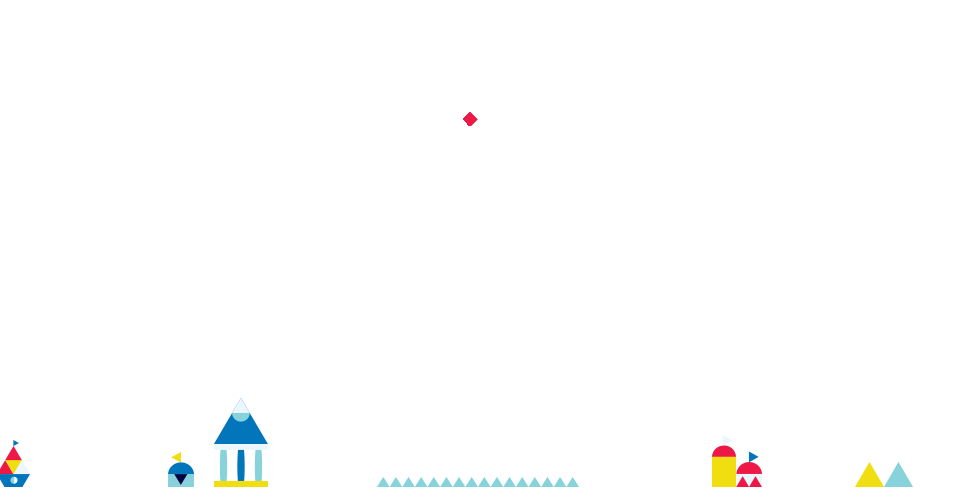
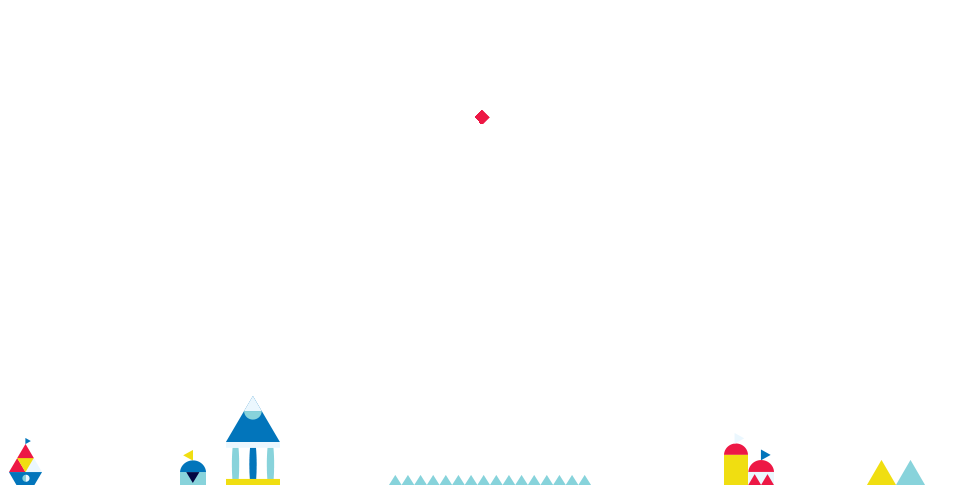
header__date fix

diff --git a/themes/custom/drupalcampathens2016/css/styles.css b/themes/custom/drupalcampathens2016/css/styles.css
@@ -120,7 +120,7 @@ html {
 .header__date {
   background: url("../images/header__date.png") no-repeat;
   background-position: center;
-  height: 342px;
+  height: 338px;
   background-size: 680px;
   margin: 0 auto;
   width: 800px;

diff --git a/themes/custom/drupalcampathens2016/sass/components/_header.scss b/themes/custom/drupalcampathens2016/sass/components/_header.scss
@@ -12,7 +12,7 @@
   &__date{
     background: url("../images/header__date.png") no-repeat;
     background-position: center;
-    height: 342px;
+    height: 338px;
     background-size: 680px;
     margin: 0 auto;
     width: 800px;
